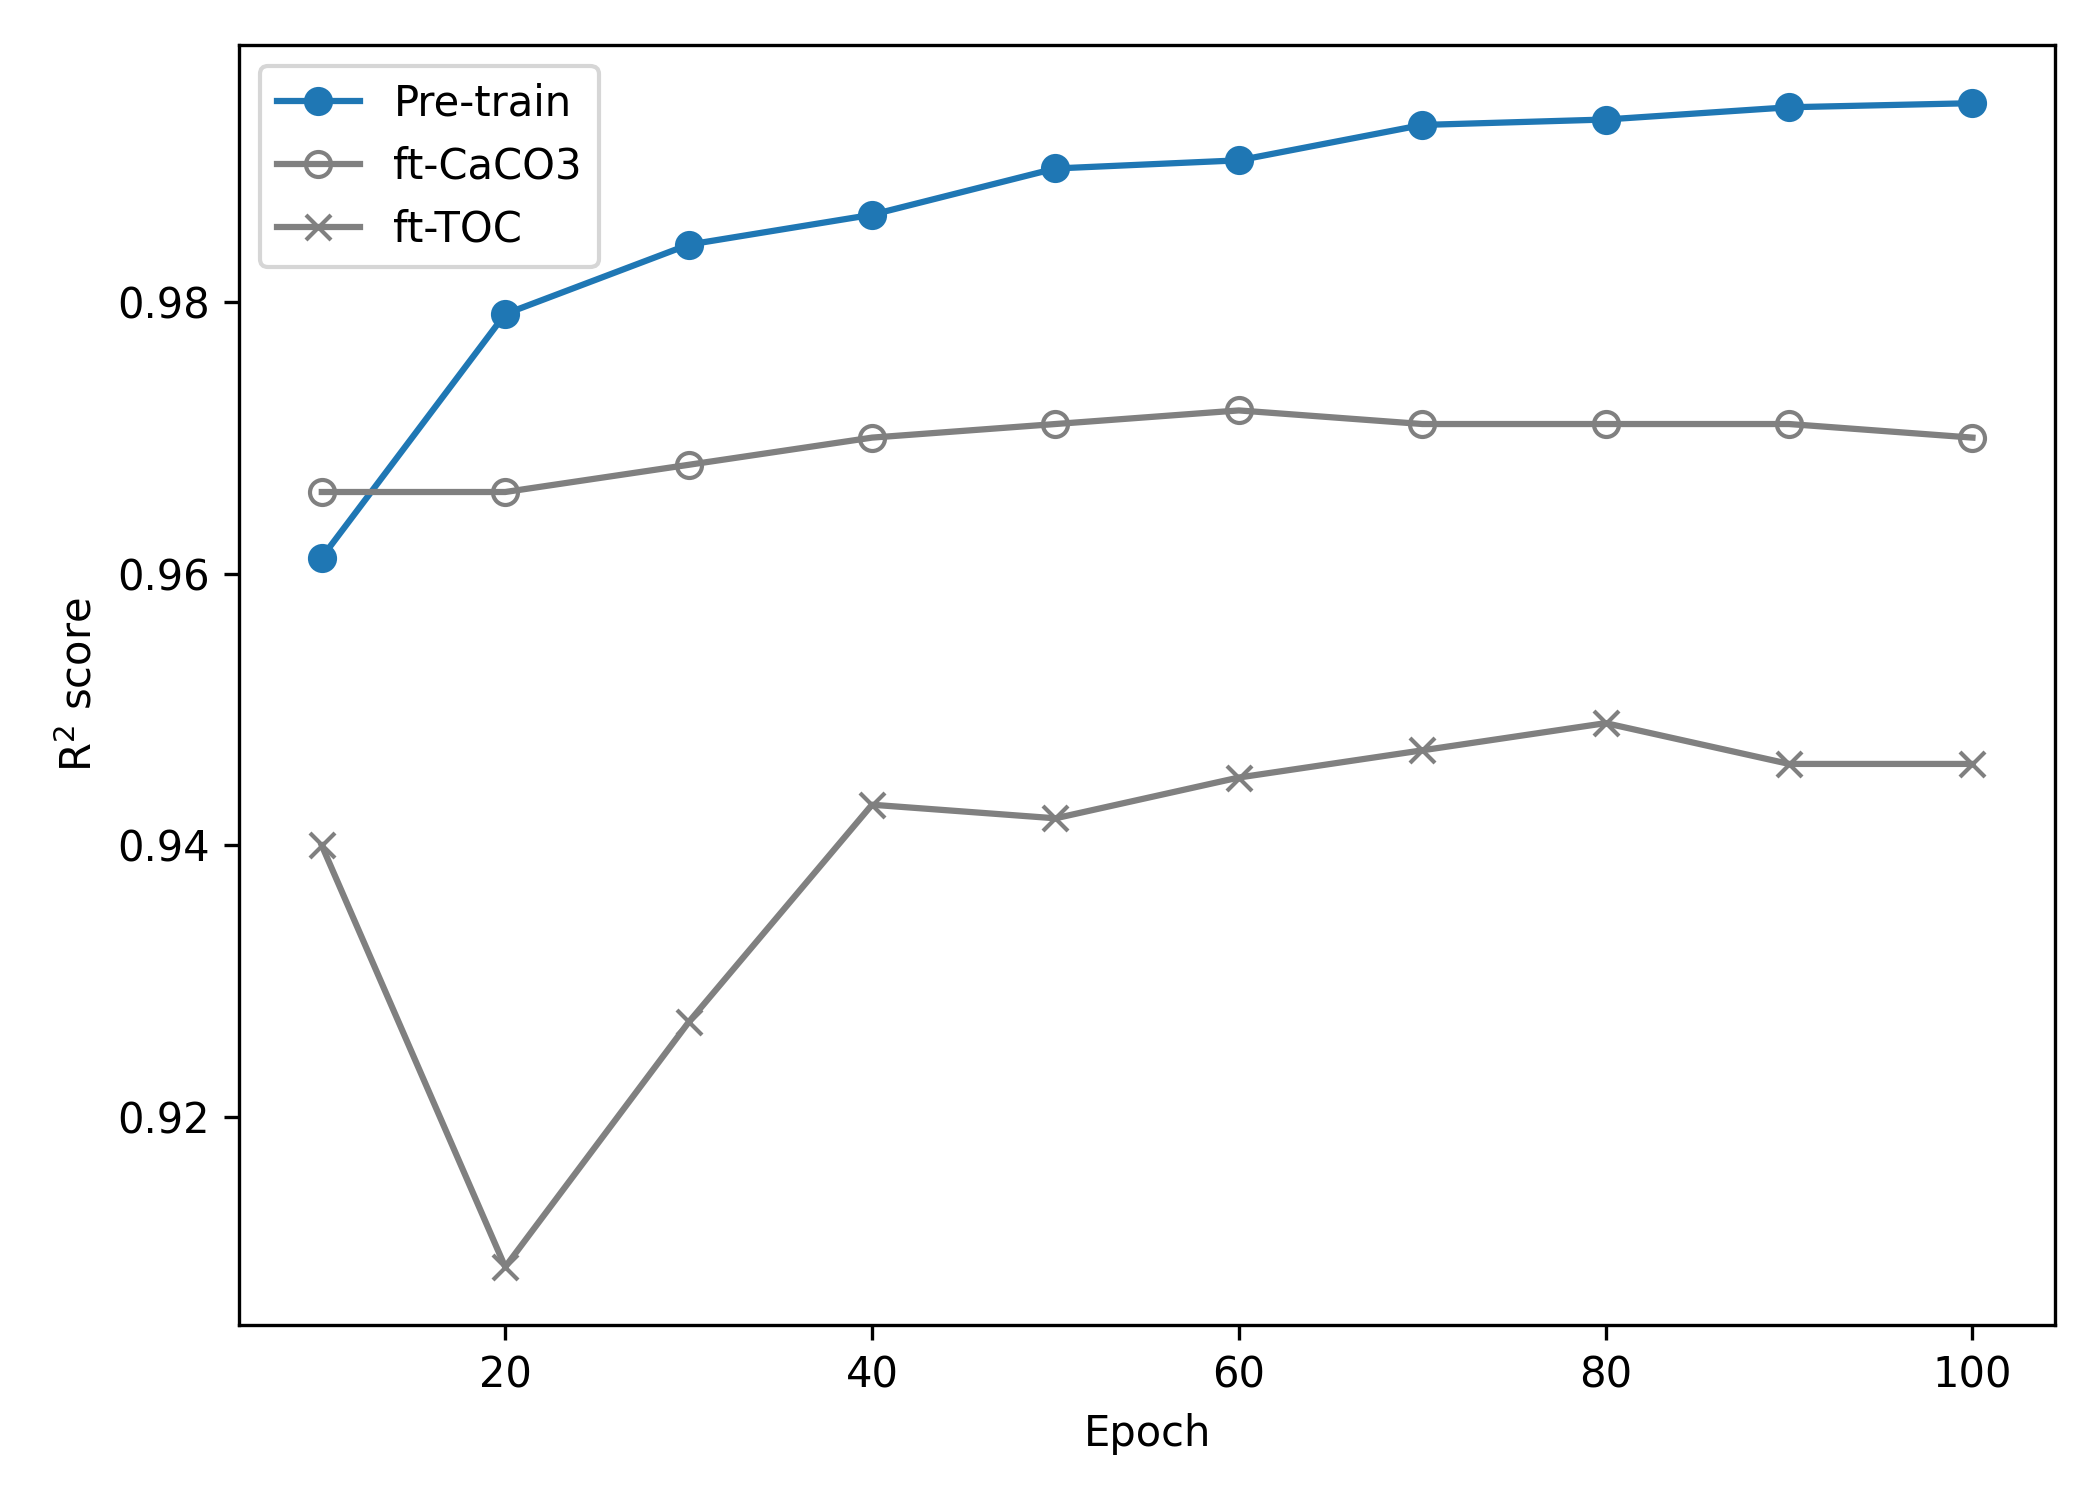
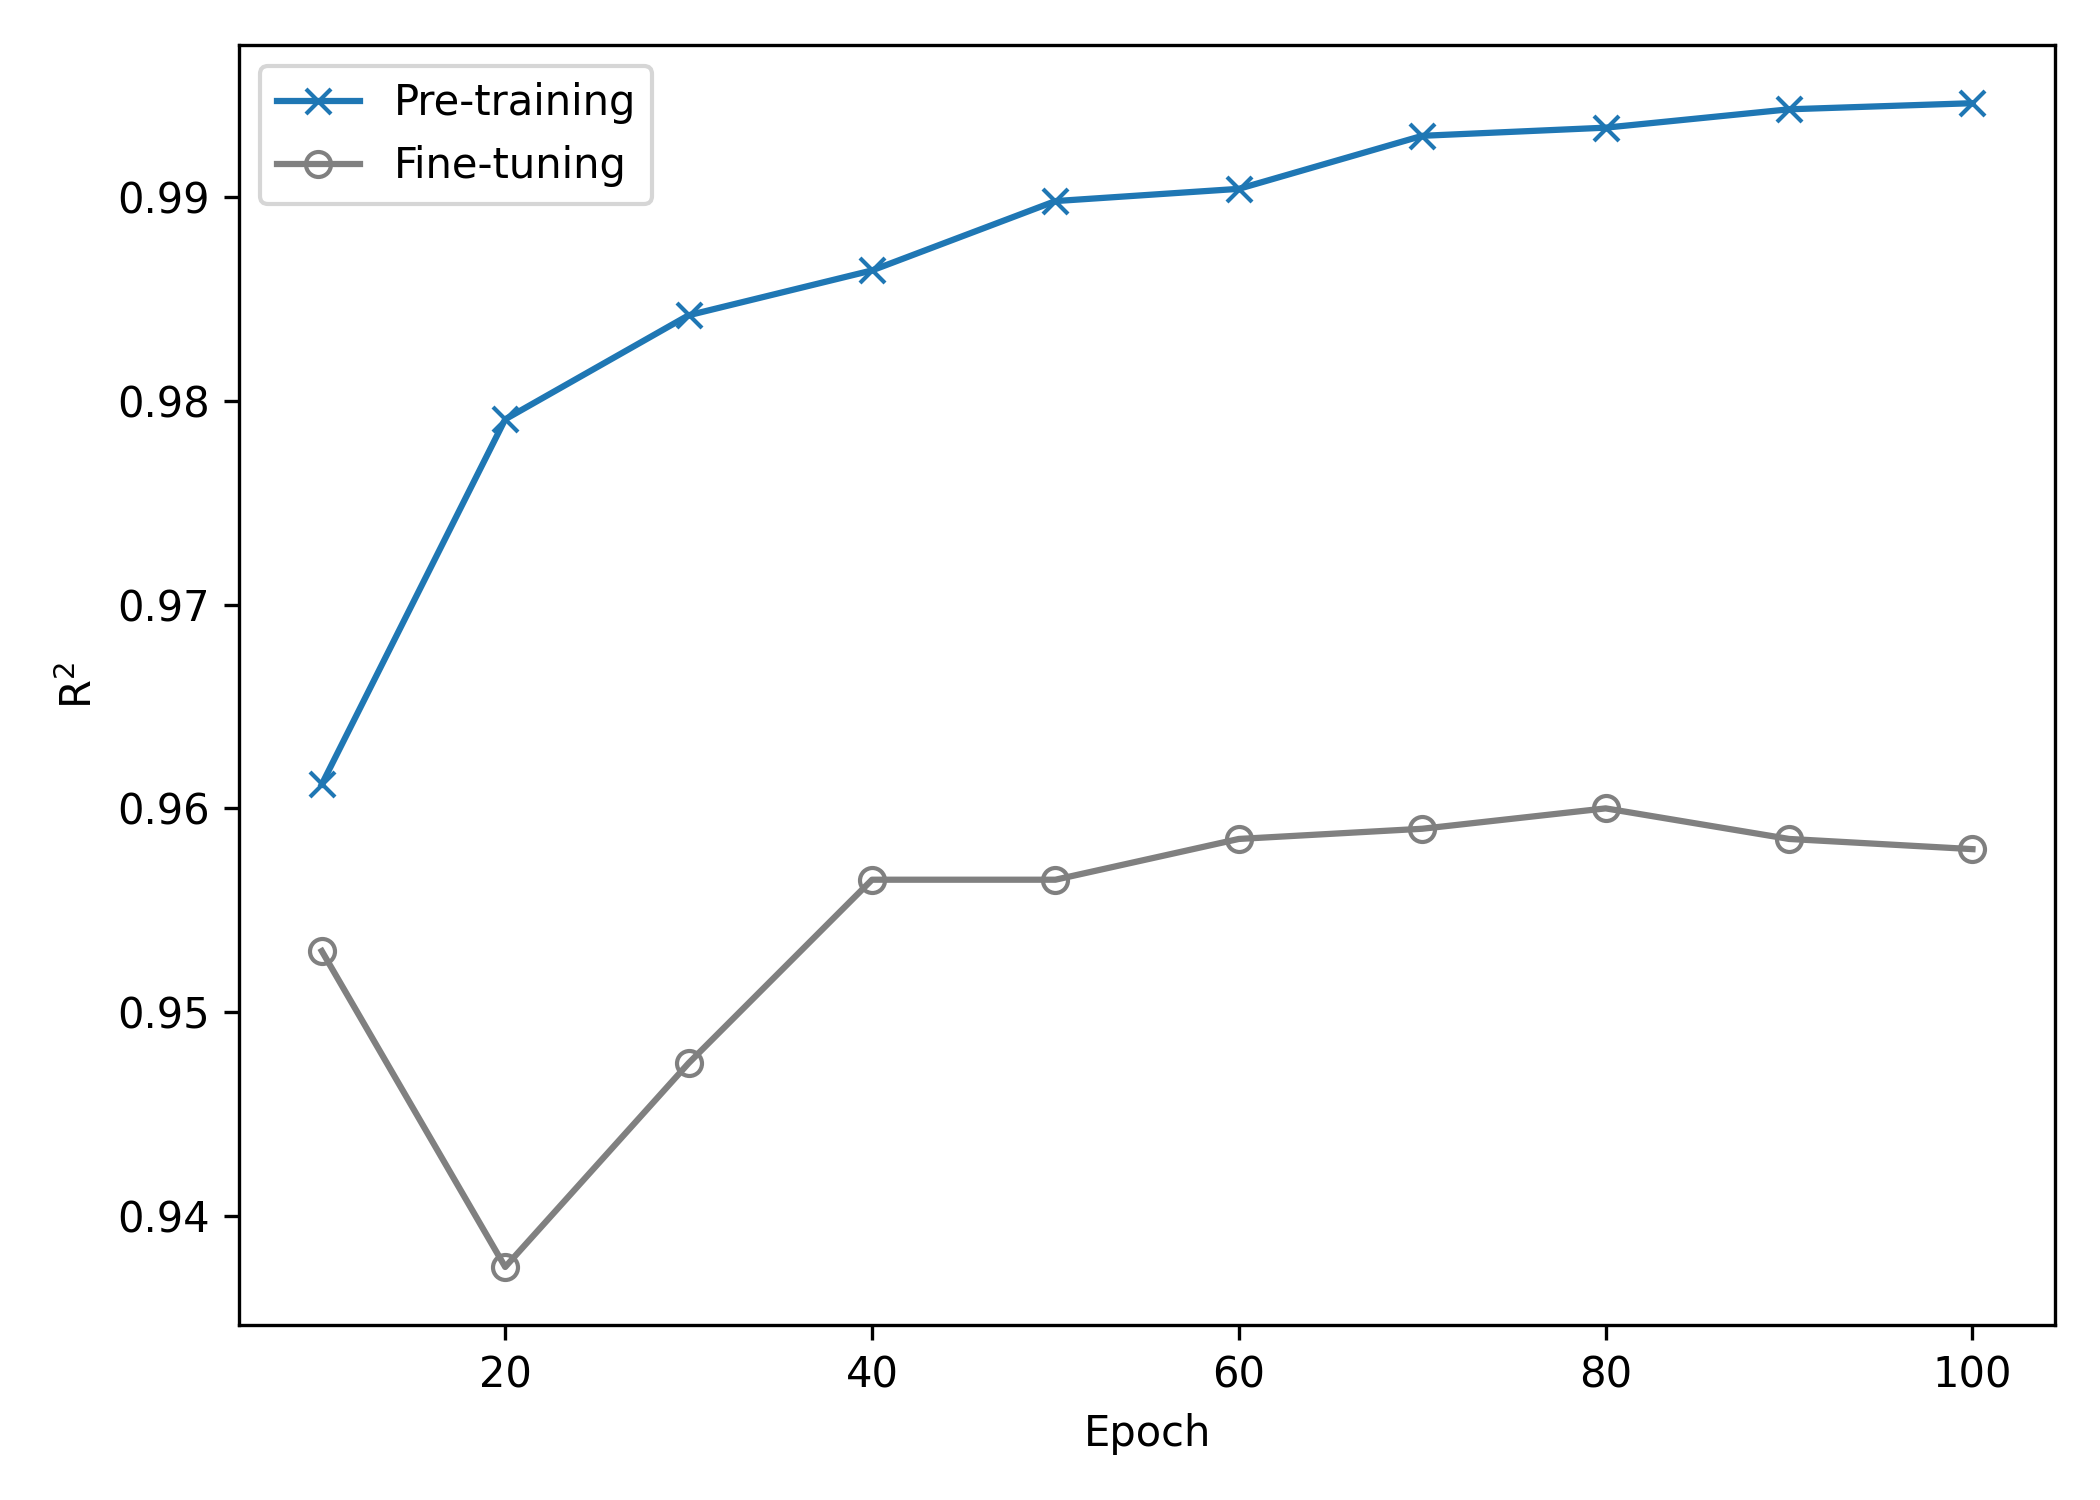
Finetune the overfitting fig

diff --git a/visualize.py b/visualize.py
@@ -220,16 +220,14 @@ def overfitting_in_pretrain():
                 0.971, 0.972, 0.971, 0.971, 0.971, 0.970]
     r2_TOC = [0.940, 0.909, 0.927, 0.943, 0.942,
               0.945, 0.947, 0.949, 0.946, 0.946]
+    r2_avg = (np.array(r2_CaCO3) + np.array(r2_TOC)) / 2
 
     fig, ax = plt.subplots(1, 1, figsize=(7, 5))
     # plot the line with empty circle markers
-    ax.plot(epochs, r2_pretrain, label="Pre-train",
-            c="C0", marker="o")
-    ax.plot(epochs, r2_CaCO3, label="ft-CaCO3",
-            c="gray", marker="o", markerfacecolor="none")
-    ax.plot(epochs, r2_TOC, label="ft-TOC", c="gray", marker="x")
+    ax.plot(epochs, r2_pretrain , label="Pre-training", marker="x")
+    ax.plot(epochs, r2_avg, label="Fine-tuning", c="gray", marker="o", markerfacecolor="none")
     ax.set_xlabel("Epoch")
-    ax.set_ylabel("R$^2$ score")
+    ax.set_ylabel("R$^2$")
     ax.legend()
     fig.tight_layout()
     fig.savefig("files/overfitting_in_pretrain.png", dpi=300)
@@ -320,6 +318,4 @@ def performance_data_val():
 
 
 if __name__ == "__main__":
-    performance_data_val()
-    performance_mask_ratio_val()
     overfitting_in_pretrain()
